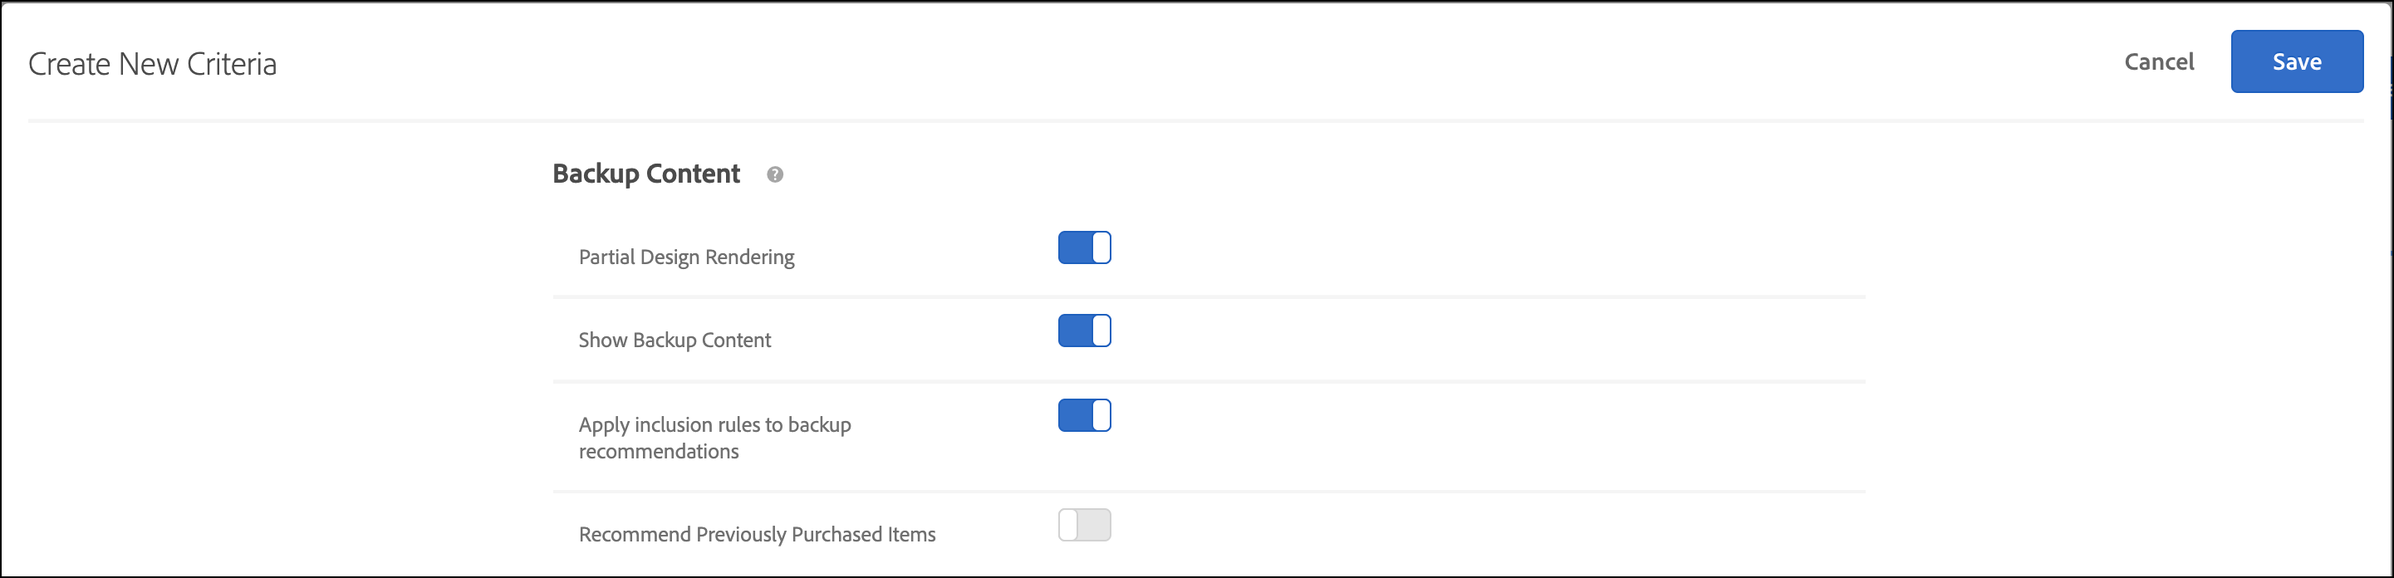
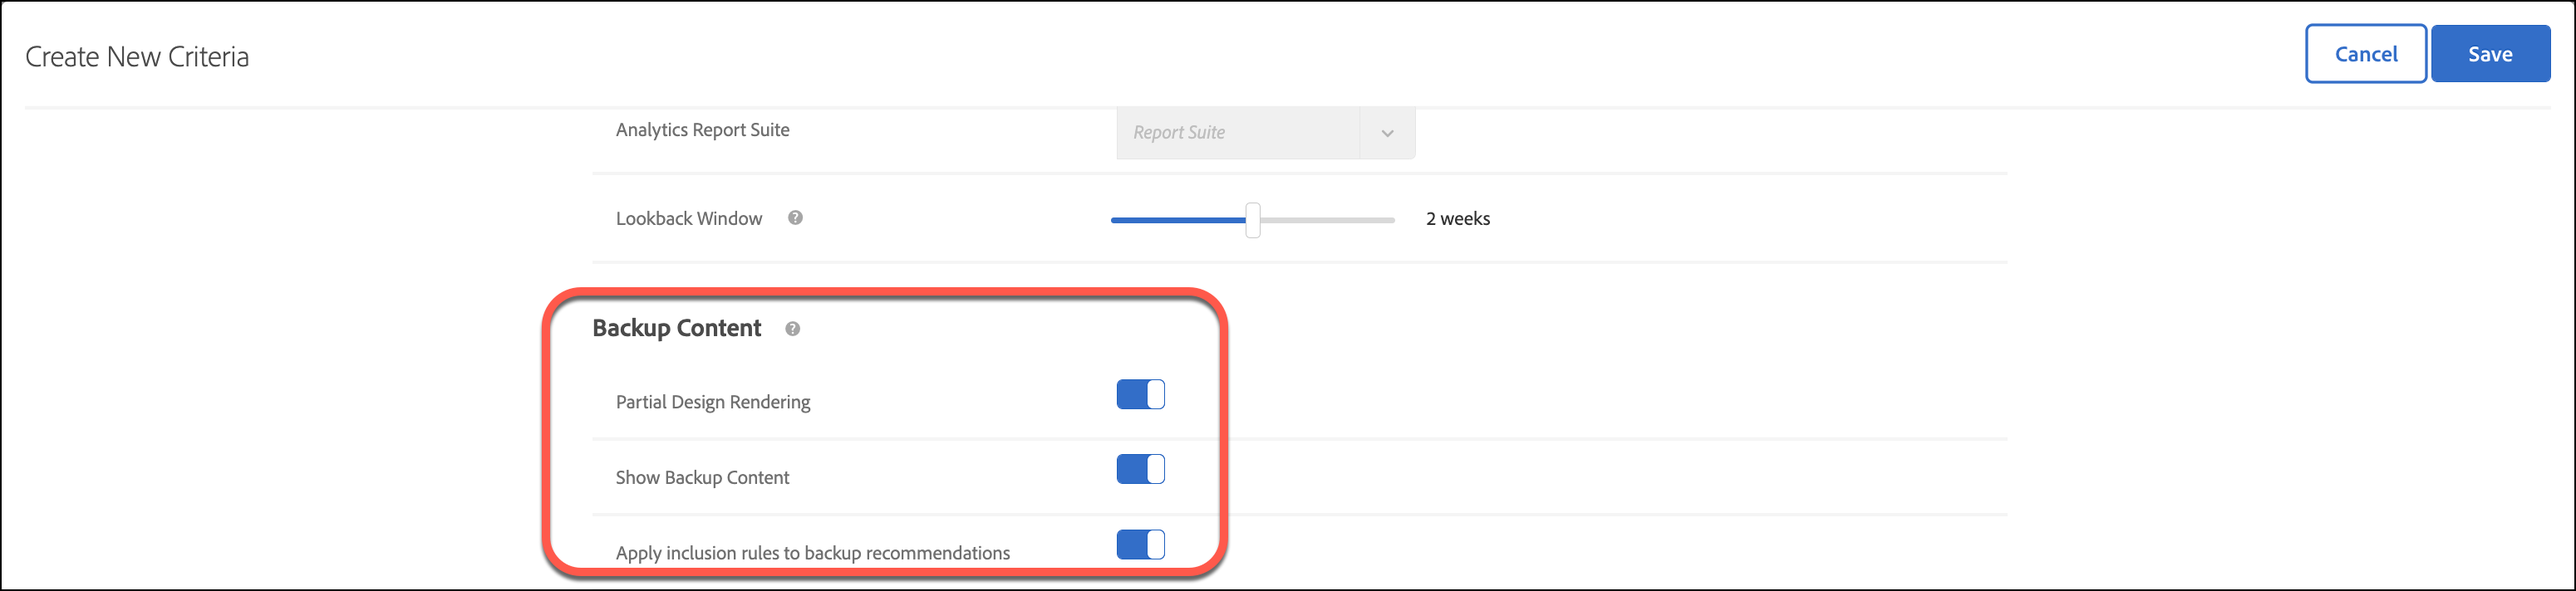
update to create criteria suggested by doc comment

diff --git a/help/main/c-recommendations/c-algorithms/create-new-algorithm.md b/help/main/c-recommendations/c-algorithms/create-new-algorithm.md
@@ -164,10 +164,6 @@ For more information about choosing a [!UICONTROL Recommendation Key], see [Base
 
    For more details, see [Specify inclusion rules](#inclusion) below.
 
-1. (Optional) Slide the **[!UICONTROL Recommend Previously Purchased Items]** toggle to the "on" position.
-
-   This setting is based on the `productPurchasedId`. The default behavior is to not recommend previously purchased items. In most cases you do not want to promote items a customer has recently purchased. It is useful if you sell items that people typically purchase only once, such as kayaks. If you sell items that people come back to purchase again on a repeated basis, such as shampoo or other personal items, you should enable this option.
-
 ## Content Similarity {#similarity}
 
 Use [!UICONTROL Content Similarity] rules to make recommendations based on item or media attributes.
@@ -213,6 +209,10 @@ Inclusion rule options vary by industry vertical. By default, inclusion rules ar
 The inclusion rules are joined with an AND. All rules must be met to include an item in a recommendation. 
 
 To create a simple inclusion rule, as mentioned previously, to display only women's shoes that have an inventory of more than 50 and a price between $25 and $45, perform the following steps: 
+
+1. (Conditional) Slide the **[!UICONTROL Allow recently purchased items to be recommended?]** toggle to the “on” position.
+
+   This setting is based on the `productPurchasedId`. The default behavior is to not recommend previously purchased items. In most cases you do not want to promote items a customer has recently purchased. It is useful if you sell items that people typically purchase only once, such as kayaks. If you sell items that people come back to purchase again on a repeated basis, such as shampoo or other personal items, you should enable this option.
 
 1. Set a price range for the products you want to recommend.
 1. Set the minimum inventory amount for the products you want to recommend.
